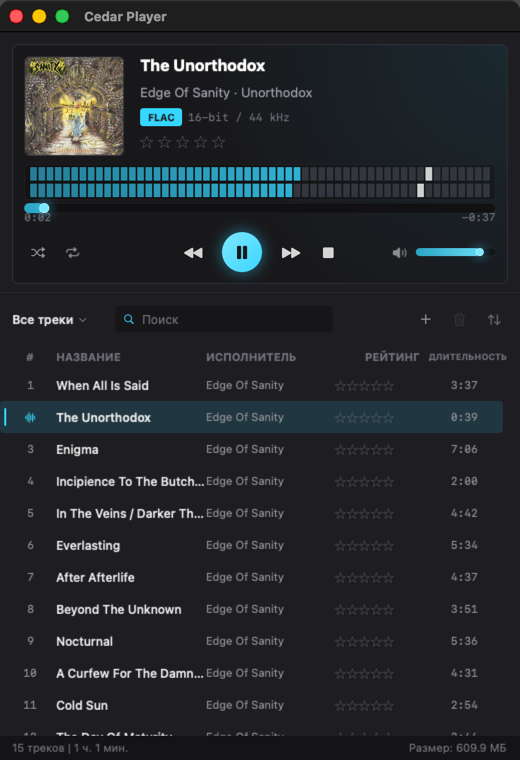
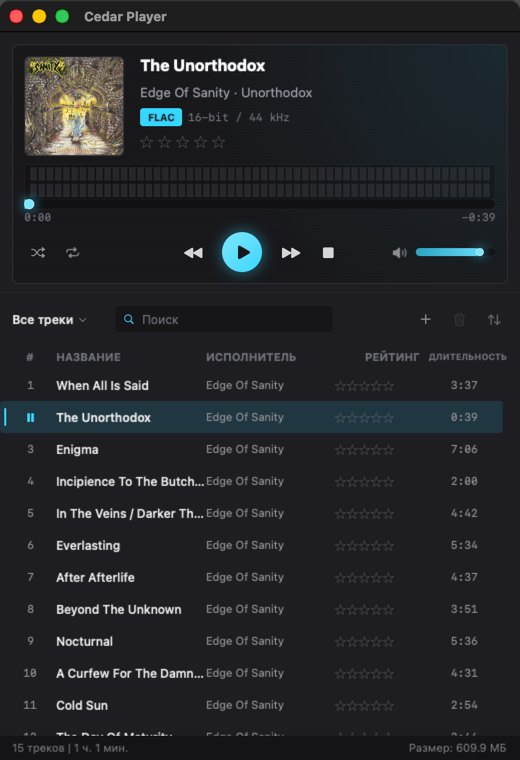
Lower the timeline labels below the seek thumb

diff --git a/Sources/CedarPlayer/PlayerPane.swift b/Sources/CedarPlayer/PlayerPane.swift
@@ -28,7 +28,7 @@ struct PlayerPane: View {
                     .onTapGesture { cycleMeterStyle() }
                     .help(L10n.format("Визуализатор: %@", currentStyle.title))
                 seekBlock
-                    .padding(.top, 6)
+                    .padding(.top, 2)
                 transportRow
                     .frame(height: 40)
                     .padding(.top, 8)
@@ -244,7 +244,7 @@ struct PlayerPane: View {
     // MARK: Seek
 
     private var seekBlock: some View {
-        VStack(spacing: 0) {
+        VStack(spacing: 4) {
             CyberProgressBar(value: progressFraction, height: 4, thumbSize: 10) { fraction in
                 guard engine.duration > 0 else { return }
                 engine.seek(to: fraction * engine.duration)
@@ -258,7 +258,7 @@ struct PlayerPane: View {
             .foregroundStyle(Theme.Cyber.tertiaryText)
             .frame(height: 14)
         }
-        .frame(height: 18)
+        .frame(height: 22)
     }
 
     private var progressFraction: Double {
